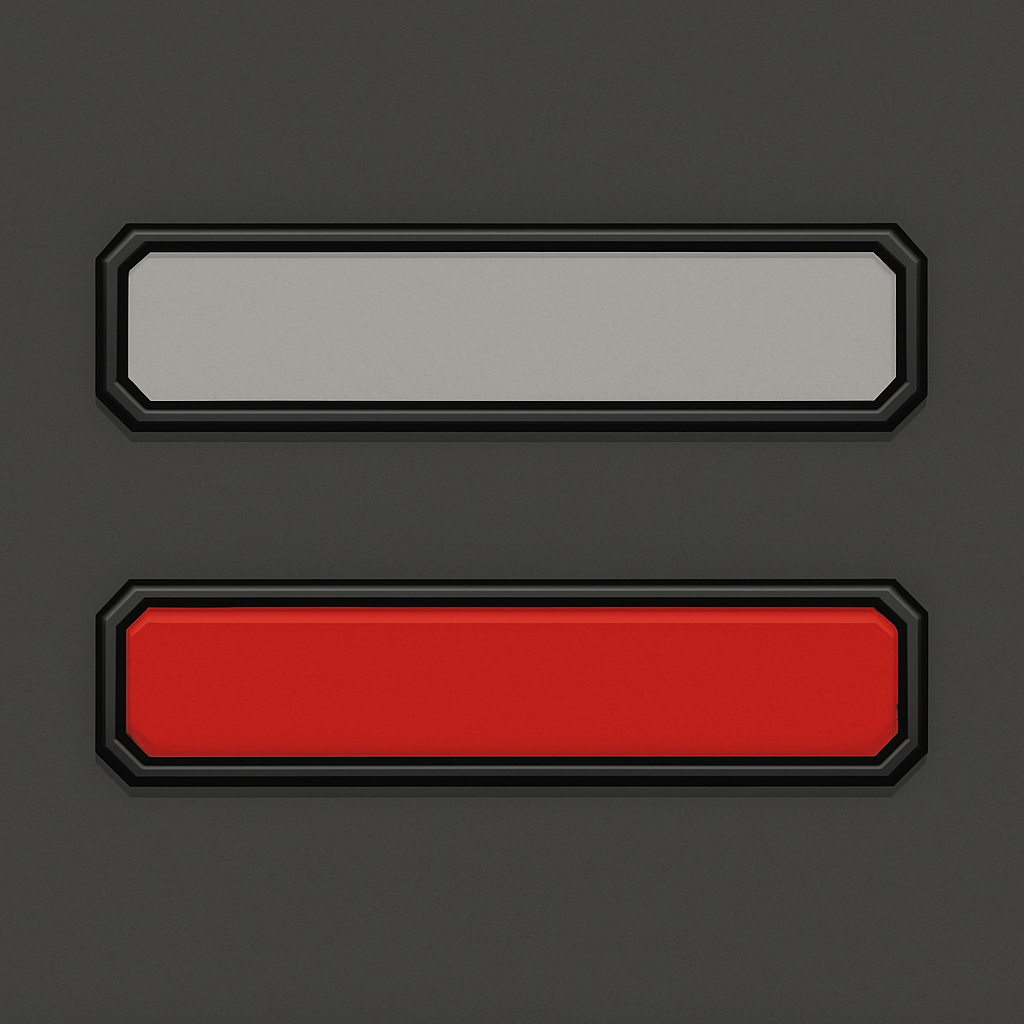
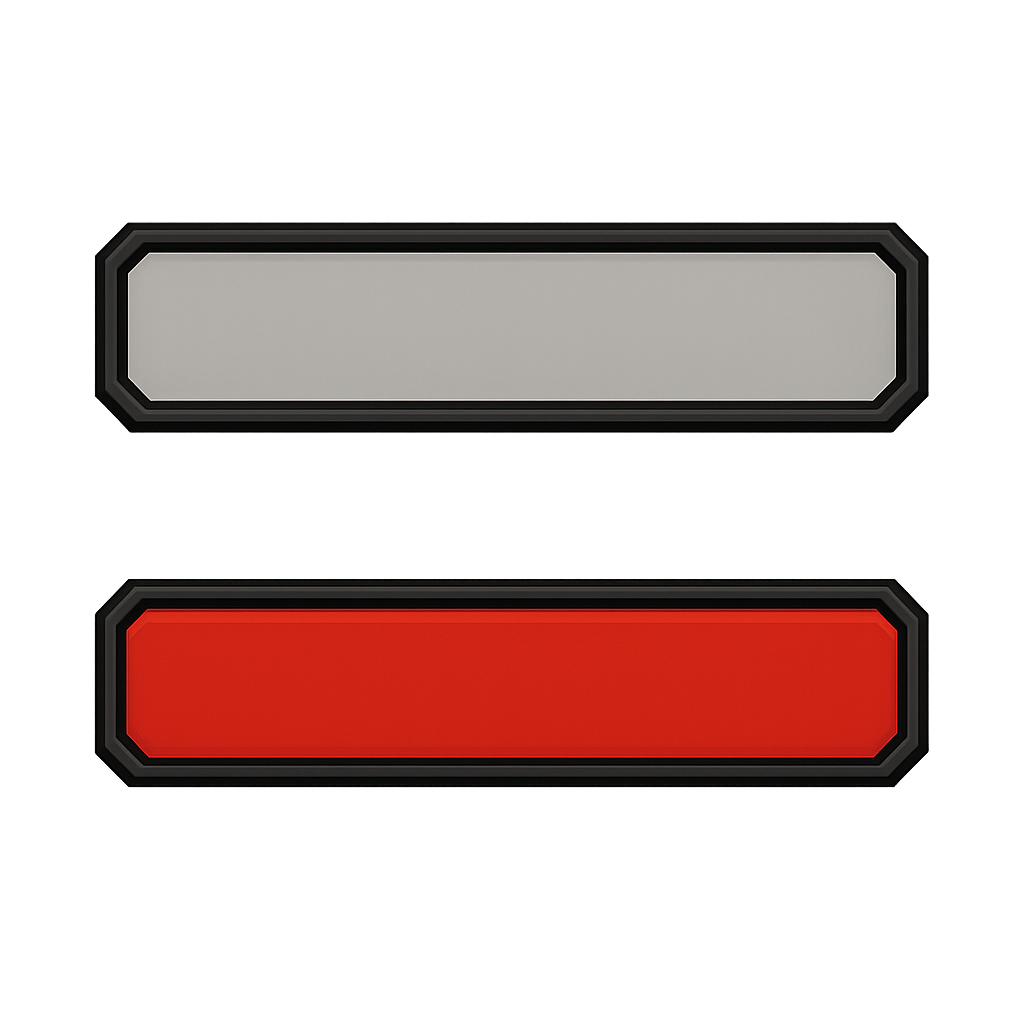
[Fix] hp 바 번들 이미지 사용하도록 수정

diff --git a/Assets/03.Scripts/Enemy/EnemyHP.cs b/Assets/03.Scripts/Enemy/EnemyHP.cs
@@ -4,16 +4,23 @@ using UnityEngine.UI;
 
 public class EnemyHP : MonoBehaviour
 {
-    public Image Hpbar;
+    public Image HpbarFront;
+    public Image HpbarBack;
 
     public TextMeshProUGUI HpbarTxt;
+
+    private void Start()
+    {
+        HpbarFront.sprite = AddressableManager.Instance.GetAssets<Sprite>("Assets/00.Externals/Myaddressable/Hpbar.png[Hpbar_1]");
+        HpbarBack.sprite = AddressableManager.Instance.GetAssets<Sprite>("Assets/00.Externals/Myaddressable/Hpbar.png[Hpbar_0]");
+    }
 
     public void UpdateHpBar()
     {
         HpbarTxt.text = SaveManager.Instance.UserData.BossCurrentHp.ToString();
         
-        float hp = (float)SaveManager.Instance.UserData.BossCurrentHp / SaveManager.Instance.UserData.BossMaxHp; 
+        float hp = (float)SaveManager.Instance.UserData.BossCurrentHp / SaveManager.Instance.UserData.BossMaxHp;
 
-        Hpbar.fillAmount = hp;
+        HpbarFront.fillAmount = hp;
     }
 }

diff --git a/Assets/03.Scripts/Inventory/Slot.cs b/Assets/03.Scripts/Inventory/Slot.cs
@@ -48,7 +48,7 @@ public class Slot : MonoBehaviour
                     break;
                 case Consts.ItemType.Shield:
                     _descriptionText = $"방어력 + {item.EnhancedDefence()}, 판매가 {item.PriceItem()}";
-                    Icon.sprite = AddressableManager.Instance.GetAssets<Sprite>("Assets/00.Externals/Myaddressable/itemSheet0.png[itemSheet0_2]]");
+                    Icon.sprite = AddressableManager.Instance.GetAssets<Sprite>("Assets/00.Externals/Myaddressable/itemSheet0.png[itemSheet0_2]");
                     break;
                 case Consts.ItemType.Ring:
                     _descriptionText = $"크리티컬 + {item.EnhancedCri()}, 판매가 {item.PriceItem()}";

diff --git a/Assets/03.Scripts/Player/PlayerStatus.cs b/Assets/03.Scripts/Player/PlayerStatus.cs
@@ -9,6 +9,7 @@ public class PlayerStatus : MonoBehaviour
 
     [Header("UI")]
     public Image Hpbar;
+    public Image BackHp;
     public GameObject PlayerCanvas;
 
     private int _maxHp;
@@ -18,6 +19,7 @@ public class PlayerStatus : MonoBehaviour
     private void Start()
     {
         Hpbar.sprite = AddressableManager.Instance.GetAssets<Sprite>("Assets/00.Externals/Myaddressable/Hpbar.png[Hpbar_0]");
+        BackHp.sprite = AddressableManager.Instance.GetAssets<Sprite>("Assets/00.Externals/Myaddressable/Hpbar.png[Hpbar_0]");
 
         PlayerHpBar();
         PlayerCanvas.SetActive(false);
